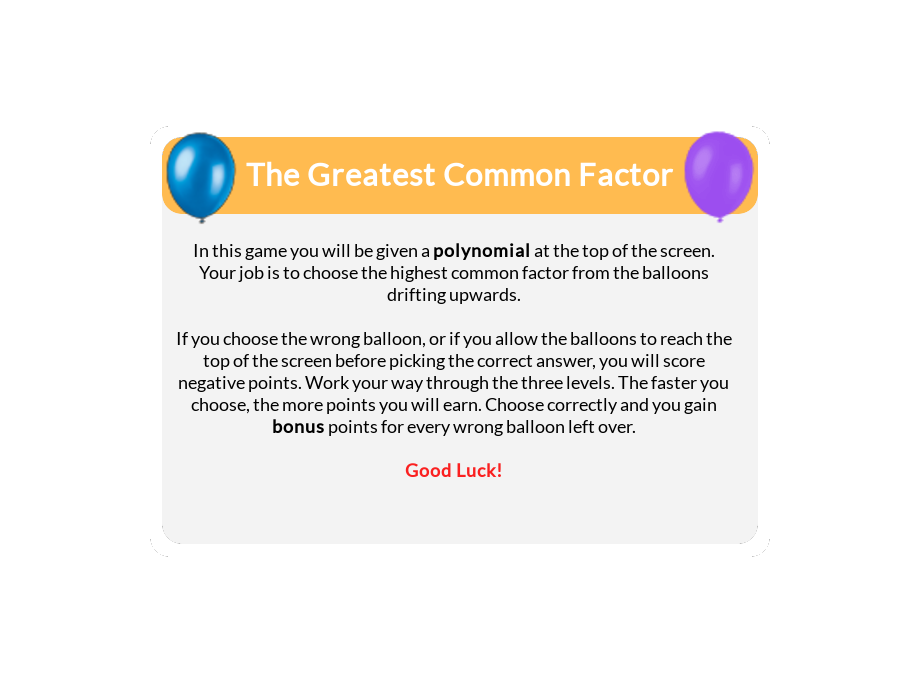
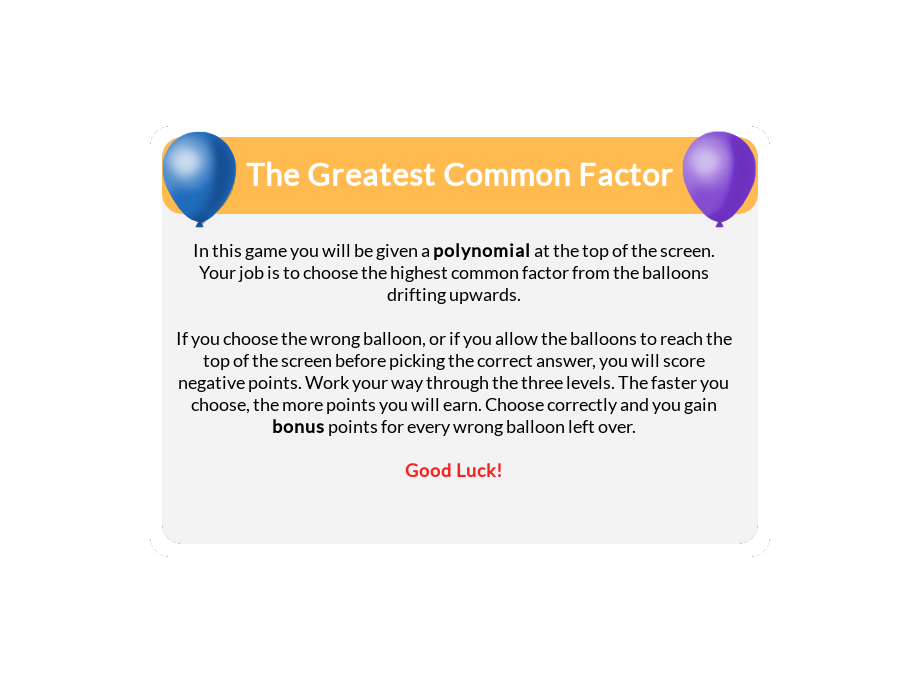
Fixed balloon spacing issue which cut off a balloon. Updated start screen graphics with nicer balloons

Changed region(s): [[0.7467, 0.18, 0.84, 0.33], [0.1556, 0.18, 0.28, 0.33]]

diff --git a/balloons-sig_figs.js b/balloons-sig_figs.js
@@ -98,7 +98,7 @@ function init() {
 	loadBalloonSpriteData("balloon_sprite_green.png");
 	loadBalloonSpriteData("balloon_sprite_red.png");
 	loadBalloonSpriteData("balloon_sprite_orange.png");
-	loadBalloonSpriteData("balloon_sprite_purple.png");
+	//loadBalloonSpriteData("balloon_sprite_purple.png");
 
 	setupManifest(); // preloadJS
 	startPreload();
@@ -245,11 +245,11 @@ function initStartButton() {
  */
 function initBalloons() {
 
-	var BALLOON_SPACING = 70;
+	var BALLOON_SPACING = 35;
 
 	for (var i = 0; i < balloonSpritesArray.length; i++) {
 		var sprite = balloonSpritesArray[i];
-		sprite.x = 60 + (sprite.getBounds().width + 35) * i;
+		sprite.x = 60 + (sprite.getBounds().width + BALLOON_SPACING) * i;
 		sprite.y = parseInt(STAGE_HEIGHT) + Math.floor(Math.random() * 40);
 		sprite.name = questions[questionCounter].options[i];
 		sprite.on("click", function(event) {balloonClickHandler(event);});

diff --git a/balloons-gcf.js b/balloons-gcf.js
@@ -247,11 +247,11 @@ function initStartButton() {
  */
 function initBalloons() {
 
-	var BALLOON_SPACING = 70;
+	var BALLOON_SPACING = 15;
 
 	for (var i = 0; i < balloonSpritesArray.length; i++) {
 		var sprite = balloonSpritesArray[i];
-		sprite.x = 60 + (sprite.getBounds().width + 35) * i;
+		sprite.x = 25 + (sprite.getBounds().width + BALLOON_SPACING) * i;
 		sprite.y = parseInt(STAGE_HEIGHT) + Math.floor(Math.random() * 40);
 		sprite.name = questions[questionCounter].options[i];
 		sprite.on("click", function(event) {balloonClickHandler(event);});
